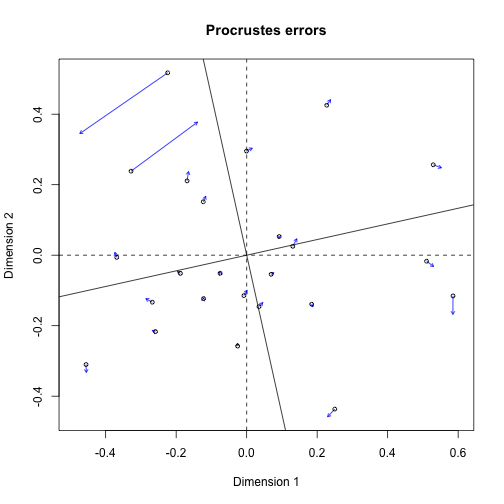
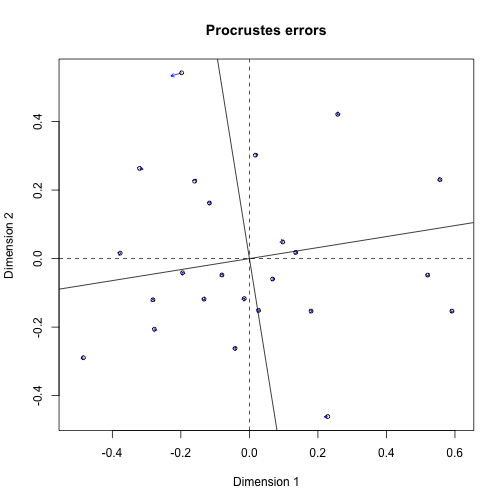
more week 5

diff --git a/Week5_Notes.md b/Week5_Notes.md
@@ -3,6 +3,12 @@ Week5_Notes
 author: Alexander Frieden
 date: 02/24/2016
 
+
+Extra credit
+===========================
+If you can fix a mistake I make in the notes, add a proof, or add an example I will give you extra credit
+
+
 Paper
 ===========================
 
@@ -254,7 +260,7 @@ vegan  2.3-3  2.3-4              TRUE
 
 
 The downloaded source packages are in
-	'/private/var/folders/sd/mk5vnyyx72qbcjpjfbtncgp00000gs/T/RtmpVMqz1v/downloaded_packages'
+	'/private/var/folders/sd/mk5vnyyx72qbcjpjfbtncgp00000gs/T/RtmpEEZVpb/downloaded_packages'
 ```
 
 
@@ -269,7 +275,7 @@ install.packages("MASS", repos = "http://cran.us.r-project.org")
 ```
 
 The downloaded binary packages are in
-	/var/folders/sd/mk5vnyyx72qbcjpjfbtncgp00000gs/T//RtmpVMqz1v/downloaded_packages
+	/var/folders/sd/mk5vnyyx72qbcjpjfbtncgp00000gs/T//RtmpEEZVpb/downloaded_packages
 ```
 
 ```r
@@ -310,7 +316,7 @@ Call:
 procrustes(X = vare.mds, Y = vare.mds0) 
 
 Procrustes sum of squares:
-0.1562 
+0.00168 
 ```
 
 
@@ -572,15 +578,100 @@ $$
 
 Motivation (part 3)
 ======================
-We thus obtain a function $f(3;p)$.  This function is called the **likelihood function**.  
+We thus obtain a function $f(3;p)$.  This function is called the **likelihood function**.  We denote this by $L(p;3)$
 
+The principle of maximum likelihood says we should use as our estimate of $p_0$ the value
+$p$ which makes $L(p; 3)$ as large as possible. 
+
+Makes sense: we pick the parameter value $p$ which makes the observed data most likely when assuming $p_0$ equals $p$.
+
+Motivation (part 4)
+========================
+
+Notice that since log is an increasing function, the value of $p$ which maximizes $L(p; 3)$ is the same value which maximizes $\log L(p; 3)$.
+
+It is often convenient to maximizes the logarithm of the likelihood function instead of the function itself, so we give this function a name and notation: we write $\ell(p; 3)$ for the log-likelihood function:
+$$
+\ell(p; 3) = \log L(p;3)
+$$
+
+Motivation (part 4)
+========================
+
+Here we get:
+$$
+\ell(p;3) = 3\log(p) + 7\log(1-p) + \log(\binom{n}{k}) 
+$$
+
+Motivation (part 5)
+========================
+We note in particular the $\ell$ has a unique maximum at the single critical point.  
+
+
+![Plot of log likelihood](pictures/logLikelihoodPlot.png)
+
+Motivation (part 6)
+========================
+
+Let us compute:
+$$
+\begin{align}
+0 &= \frac{\partial\ell}{\partial{p}}(p;3) \\
+0 &= \frac{3}{p} - \frac{7}{1-p} \\
+0 &= 3(1-p) - 7p \\
+p &= \frac{3}{10}
+\end{align}
+$$
+Thus the value of p maximizing $\ell(p;3)$ is $p=\frac{3}{10}$.  We call this the **maximum likelihood estimate** of $p_0$ for $X=3$
+
+Maximum Likelihood
+=====================
+Lets generalize this:
+
+if $X=k$ where $k=0,1,...,n$ the maximum likelihood estimate $p_0$ would be k/n.  
+
+Thus, the estimate is determined by the value of X, and we have the estimator $\hat{p} = X\n$
+
+Poisson Distribution
+=====================
+
+
+Example
+=====================
+Let $X_1,...,X_n$ be iid collection of Poisson($\mu$) random variables where $\mu > 0$.  Then our likelihood is:
+$$
+\begin{align}
+L(\mu;x) &= \prod_{i=1}^n\frac{e^{-\mu}\mu^{x_i}}{x_i!} \\
+&= e^{-n\mu}\mu^{\sum_{i=1}^{n}x_i}\frac{1}{\prod_{i=1}^{n}x_i!}
+\end{align}
+$$
+Thus
+$$
+\ell(\mu;x) = -n\mu + \sum_{i=1}^{n}x_i\log\mu - \log\prod_{i=1}^{n}x_i!
+$$
+
+Example (part 2)
+=====================
+Note that $\ell$ is differentiable over (0,$\infty$).  Lets calculate the critical points:
+
+$$
+\begin{align}
+0 &= \frac{\partial\ell}{\partial\mu}(\mu;x) \\
+&= -n + \frac{\sum_{i=1}^{n}x_i}{\mu}
+\end{align}
+$$
+So we get $\mu=\bar{x}$.  And note the average of $x$ here means
+$$
+\bar{x} = \frac{\sum_{i=1}^{n}x_i}{n}
+$$
+Using some further calculus we see that this is not just a local maximum but in fact a global maximum and $\hat{\mu(X)} = \bar{X}$
 
 More on this
-=====================
+========================
 
 http://www.math.utah.edu/~levin/M5080/mle.pdf
 
-Maximum Likelihood
+Maximum Likelihood definition as it pertains to applications
 ======================
 
 Maximum likelihood, also called the maximum likelihood method, is the procedure of finding the value of one or more parameters for a given statistic which makes the known likelihood distribution a maximum. 
